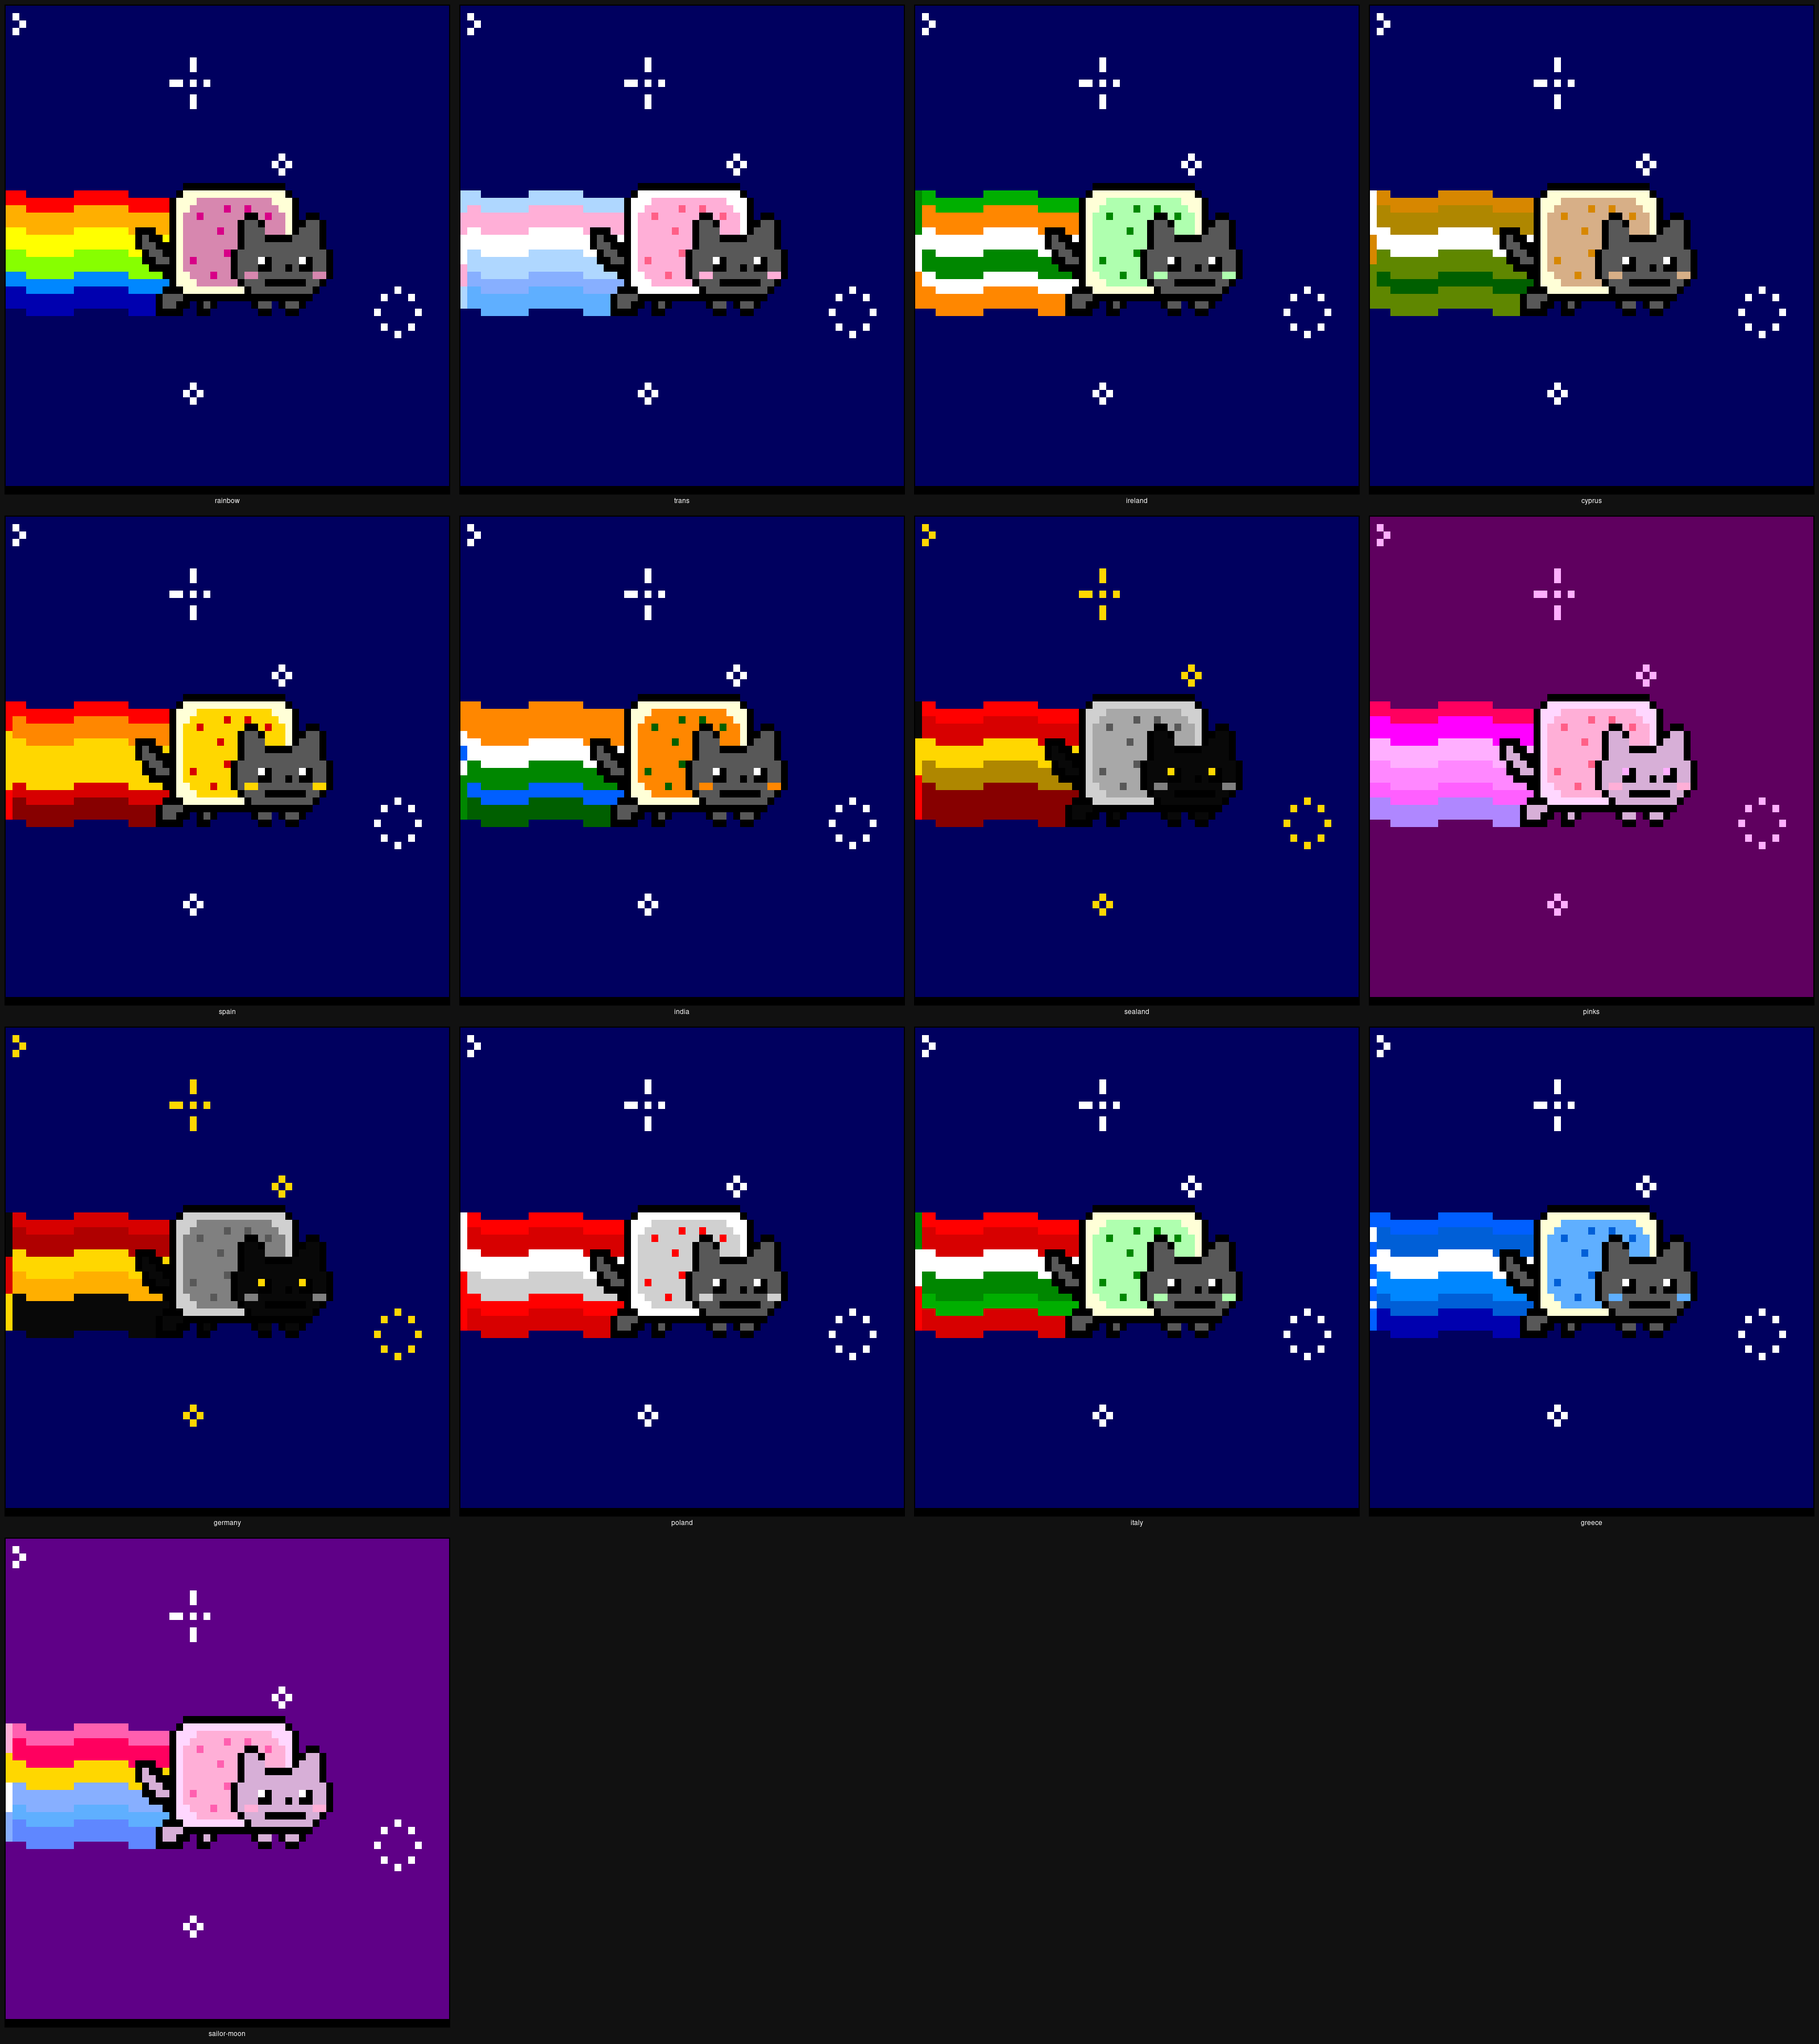
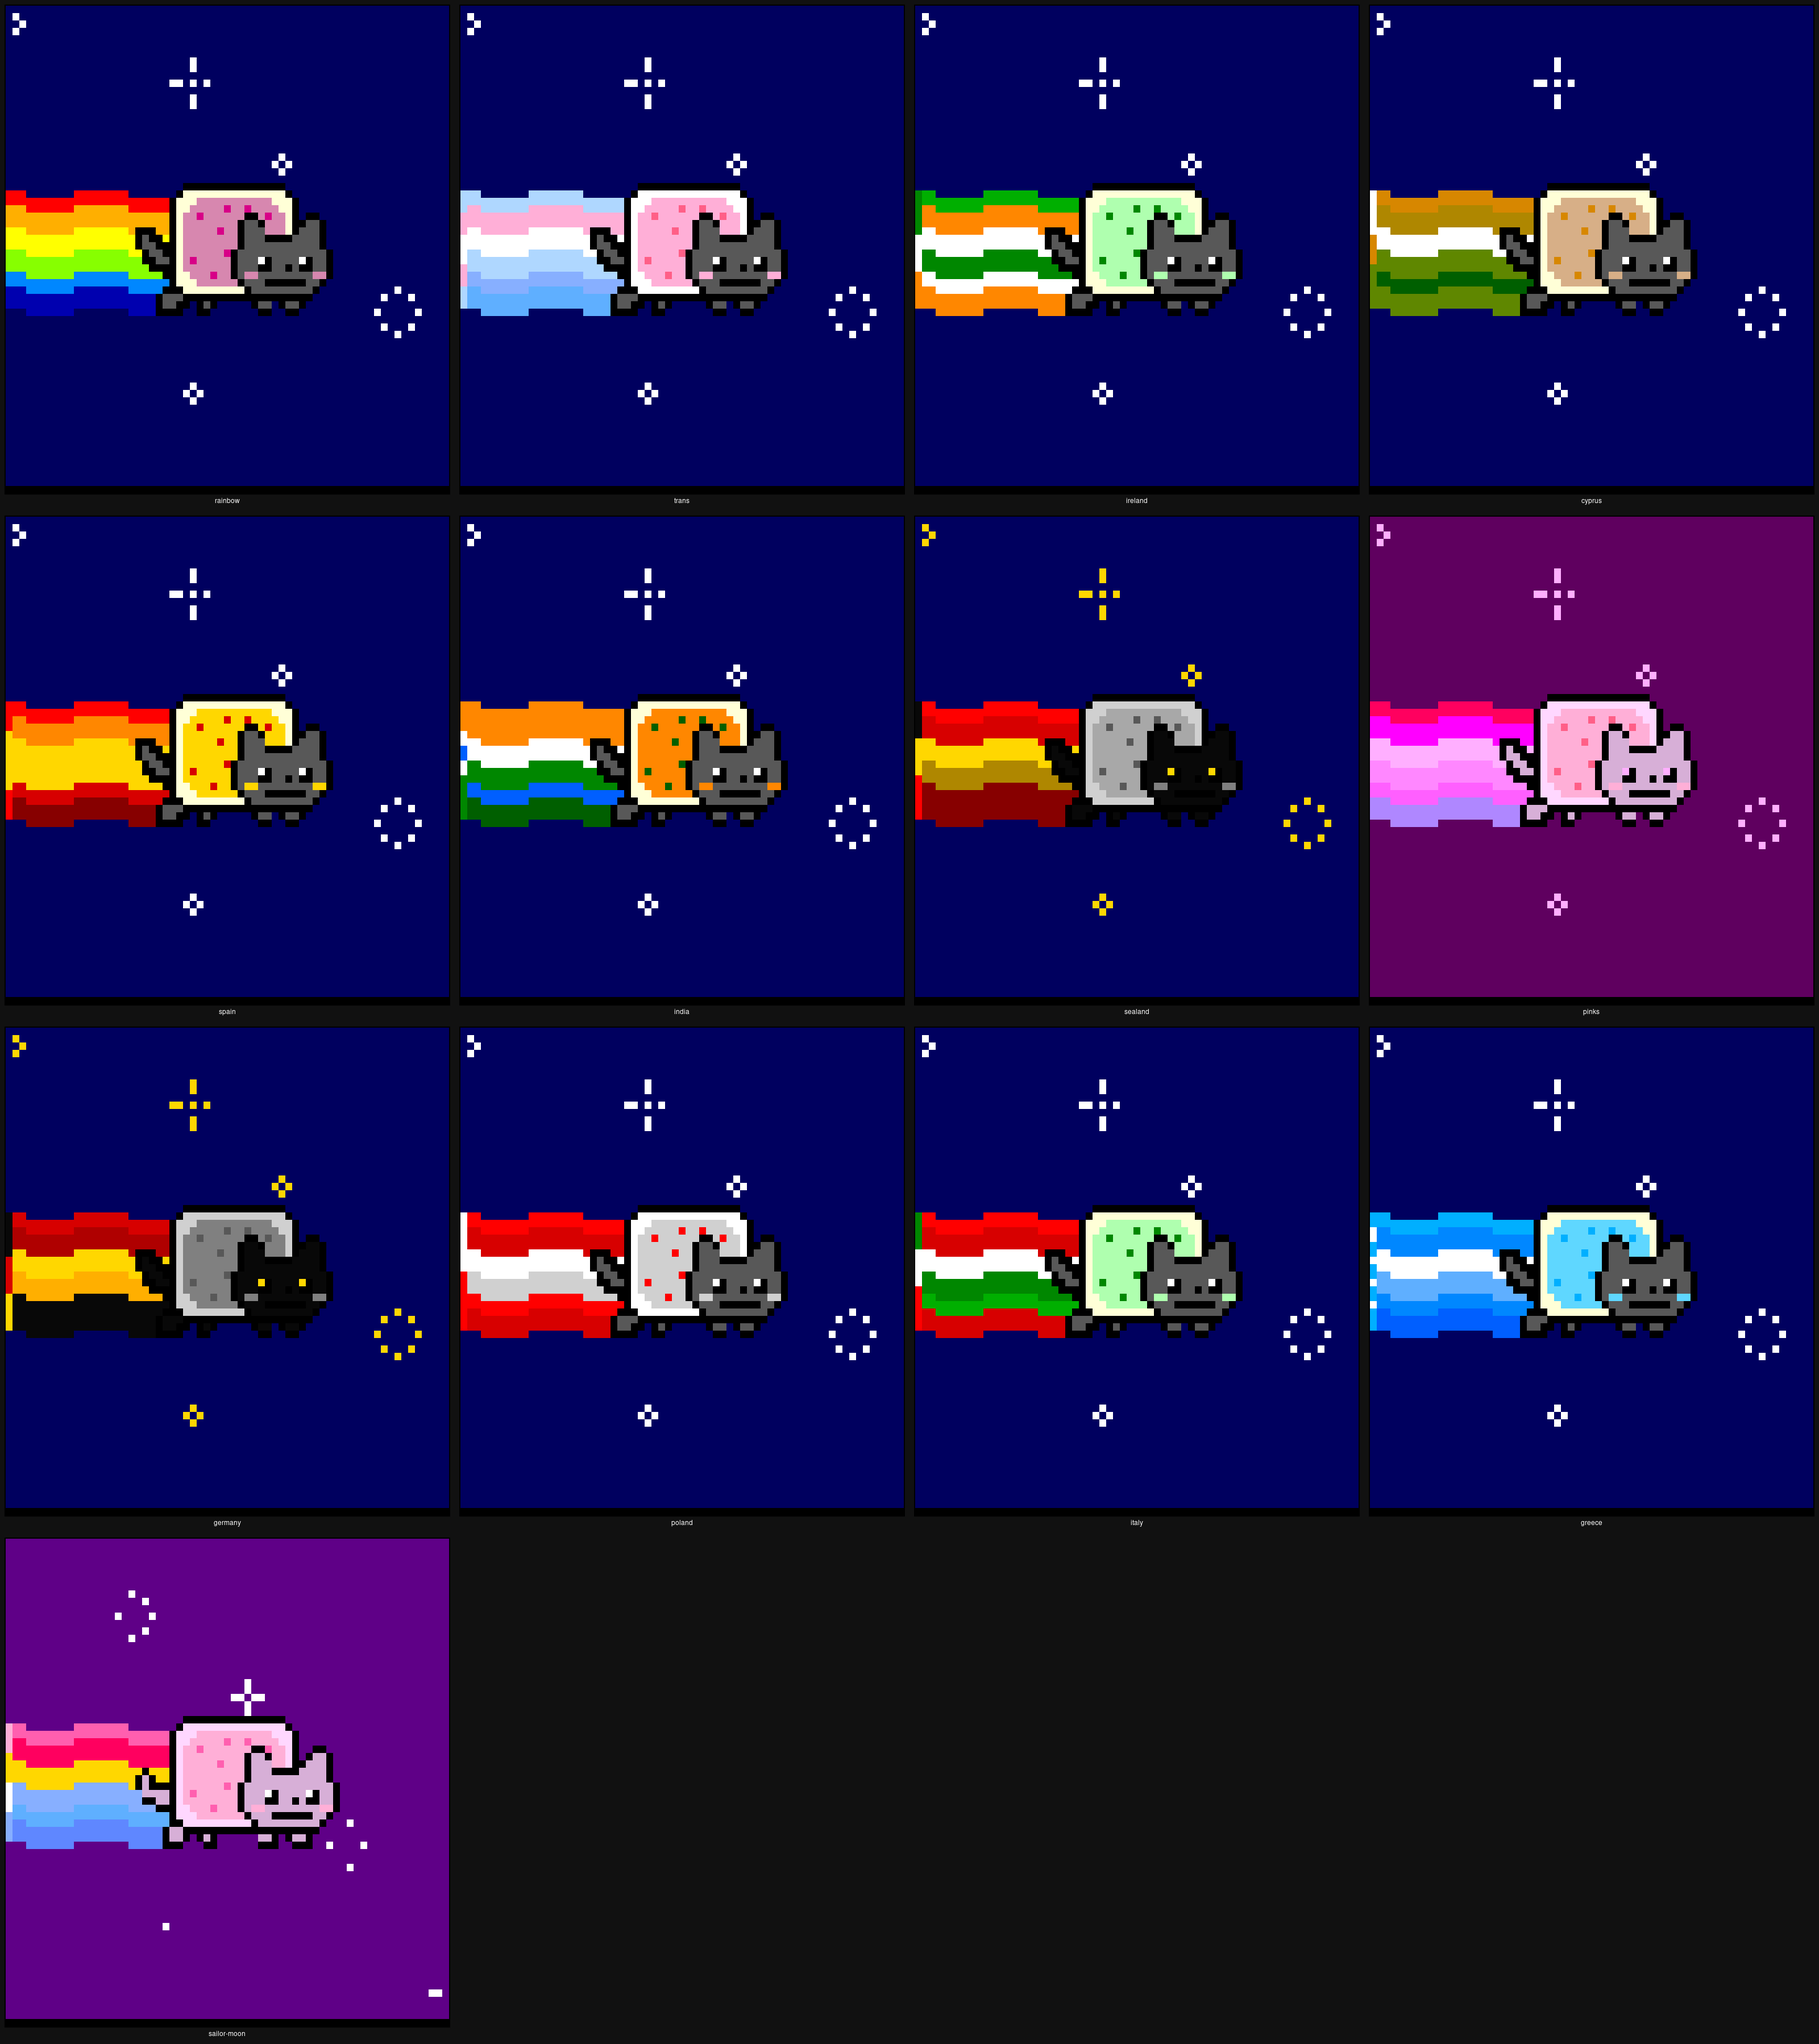
lighten greece scheme blues; fix preview script import paths

diff --git a/nyan/schemes.py b/nyan/schemes.py
@@ -254,16 +254,16 @@ SCHEME_GREECE: ColourScheme = {
         ".": "\033[48;5;231m",  # white (stars)
         "'": "\033[48;5;16m",  # black
         "@": "\033[48;5;230m",  # cream (cat body)
-        "$": "\033[48;5;75m",  # light Greek blue (cat body tint)
-        "-": "\033[48;5;26m",  # Greek blue (detail)
-        ">": "\033[48;5;27m",  # Greek blue
-        "&": "\033[48;5;26m",  # deeper blue
+        "$": "\033[48;5;81m",  # light Greek blue (cat body tint)
+        "-": "\033[48;5;39m",  # Greek blue (detail)
+        ">": "\033[48;5;39m",  # Greek blue
+        "&": "\033[48;5;33m",  # medium blue
         "+": "\033[48;5;231m",  # white
-        "#": "\033[48;5;33m",  # medium blue
-        "=": "\033[48;5;26m",  # Greek blue
-        ";": "\033[48;5;19m",  # dark blue
+        "#": "\033[48;5;75m",  # light blue
+        "=": "\033[48;5;33m",  # Greek blue
+        ";": "\033[48;5;27m",  # deeper blue
         "*": "\033[48;5;240m",  # grey
-        "%": "\033[48;5;75m",  # light blue
+        "%": "\033[48;5;81m",  # light blue
     },
     # nine stripes: blue-white-blue-white-blue-white-blue-white-blue
     "rainbow": ",,>>++>>+>>+>>+>>>,,",
